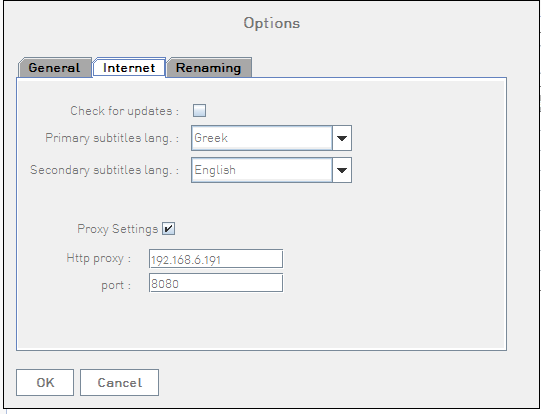
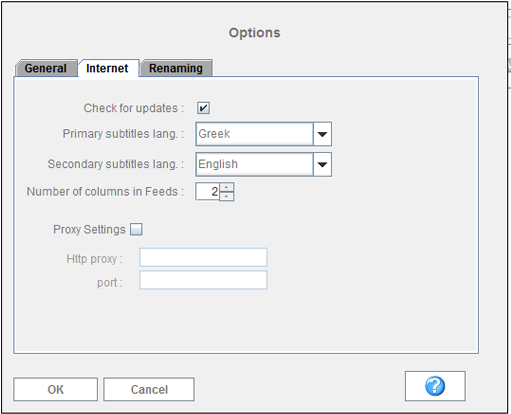
Help - Options

diff --git a/src/help/html/internet_options.html b/src/help/html/internet_options.html
@@ -13,9 +13,14 @@
           <b>Primary subtitle language - </b>
           The primary language to search when downloading subtitles
         </li>
-        <li>
+
+         <li>
           <b>Secondary subtitle language - </b>
           The secondary language to search when downloading subtitles
+        </li>
+         <li>
+          <b>Number of columns in feeds - </b>
+          You can select the number of columns shown in the feeds panel.
         </li>
         <li>
           <b>Proxy settings - </b>

diff --git a/src/help/html/general_options.html b/src/help/html/general_options.html
@@ -46,6 +46,11 @@
           scan in the series local directory is performed and video and subtitle 
           statuses are updated
         </li>
+         <li>
+          <b>Video viewer </b> -
+          You can choose the application used for viewing the videos or leave it blank
+          to use the OS default video viewer.
+        </li>
       </ul>
   </td></tr>
 </table>
